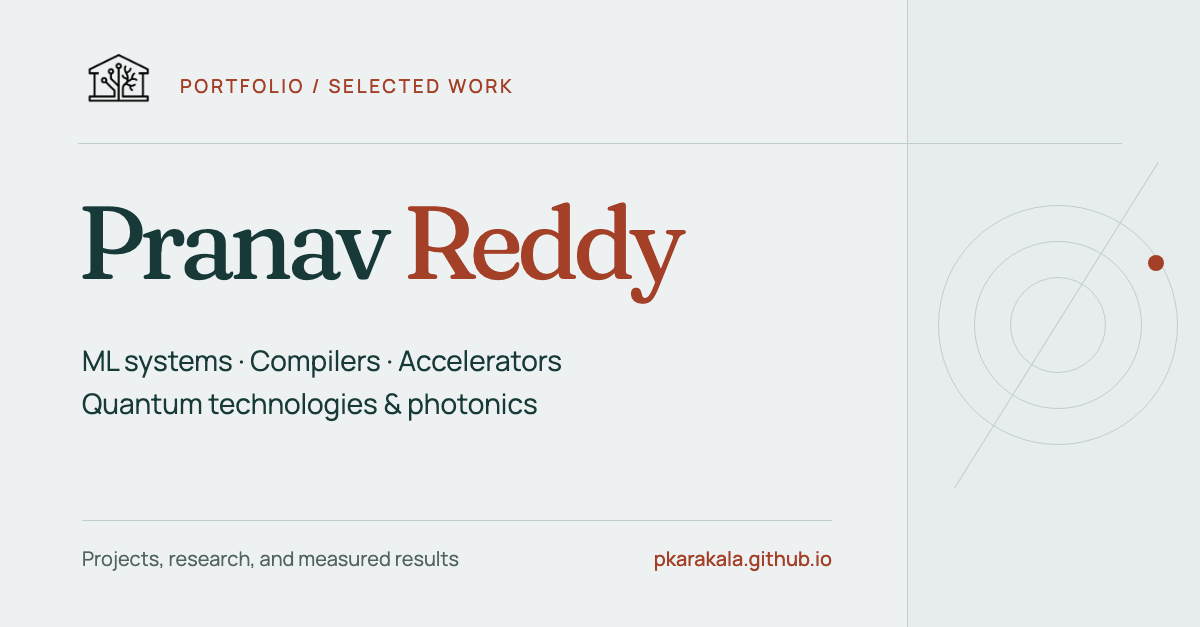
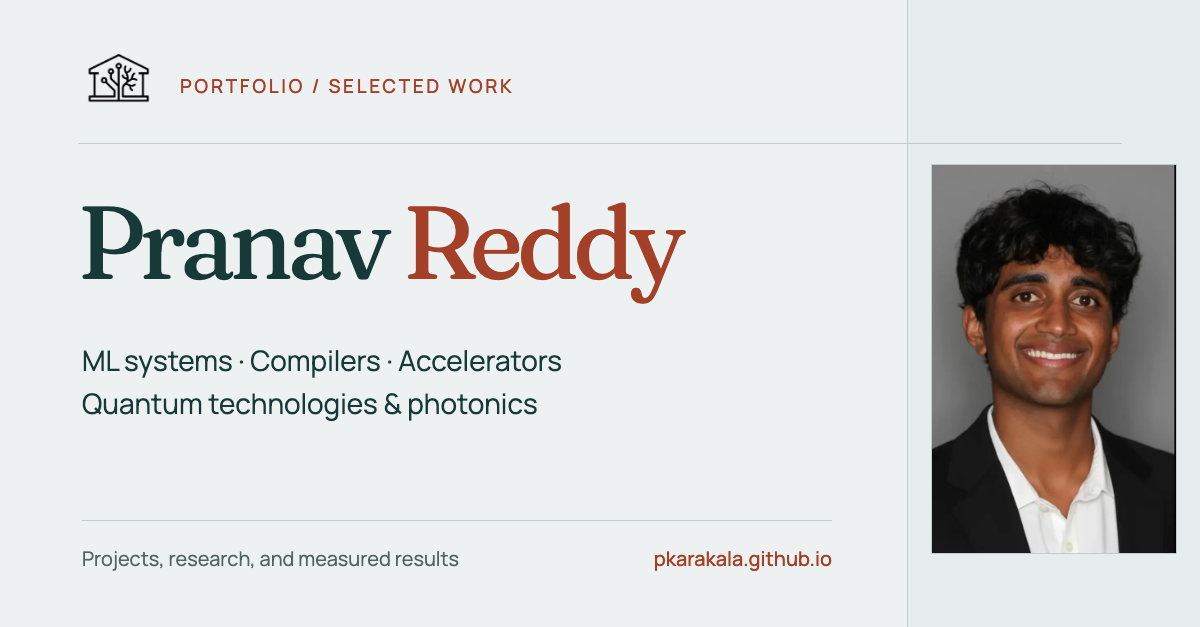
Add portrait to LinkedIn portfolio thumbnail (#6)

Changed region(s): [[0.7708, 0.2424, 0.9867, 0.9091]]

diff --git a/scripts/linkedin-art.html b/scripts/linkedin-art.html
@@ -35,13 +35,7 @@
     .card-focus { position: absolute; top: 339px; left: 82px; margin: 0; font-size: 28px; line-height: 1.55; }
     .card-footer { position: absolute; left: 82px; bottom: 55px; width: 750px; padding-top: 24px; border-top: 1px solid #bfcecb; display: flex; justify-content: space-between; font-size: 20px; color: #526461; }
     .card-footer strong { color: #a34027; font-weight: 500; }
-    .card-rings { position: absolute; left: 938px; top: 205px; width: 240px; height: 240px; }
-    .card-rings i { position: absolute; border: 1.5px solid #bfcecb; border-radius: 50%; }
-    .card-rings i:nth-child(1) { inset: 0; }
-    .card-rings i:nth-child(2) { inset: 36px; }
-    .card-rings i:nth-child(3) { inset: 72px; }
-    .card-rings b { position: absolute; width: 16px; height: 16px; right: 14px; top: 50px; border-radius: 50%; background: #a34027; }
-    .card-rings::after { content: ''; position: absolute; left: 118px; top: -72px; height: 384px; border-left: 1px solid #bfcecb; transform: rotate(32deg); }
+    .card-portrait { position: absolute; top: 164px; right: 23px; width: 246px; height: 390px; object-fit: cover; object-position: center; border: 1px solid #bfcecb; }
     .banner::before { content: ''; position: absolute; inset: 0; background: linear-gradient(90deg, #e4ebea 0 29%, transparent 29%); }
     .banner::after { content: ''; position: absolute; top: 38px; bottom: 38px; left: 395px; border-left: 2px solid #a34027; }
     .banner-kicker { position: absolute; top: 65px; left: 440px; font-size: 18px; font-weight: 500; letter-spacing: .14em; color: #a34027; }
@@ -65,7 +59,7 @@
     <h1 class="card-name">Pranav <span>Reddy</span></h1>
     <p class="card-focus">ML systems · Compilers · Accelerators<br>Quantum technologies &amp; photonics</p>
     <div class="card-footer"><span>Projects, research, and measured results</span><strong>pkarakala.github.io</strong></div>
-    <div class="card-rings" aria-hidden="true"><i></i><i></i><i></i><b></b></div>
+    <img class="card-portrait" src="../public/assets/images/pranav-596.webp" alt="Portrait of Pranav Reddy">
   </div>
   <div class="banner" aria-label="LinkedIn profile background graphic">
     <div class="banner-kicker">PRANAV REDDY / UCSB</div>

diff --git a/CONTENT-GUIDE.md b/CONTENT-GUIDE.md
@@ -83,7 +83,7 @@ npm run check:links
 
 Review homepage and Work at 1440, 1024, 768, 390, and 320px; follow keyboard focus, open a report and the resume, and check collaborator credits. The production build fails on missing local links/assets and draft leaks. External checks report blocked destinations separately; a bot-blocked response is not proof a URL is broken.
 
-The LinkedIn-ready graphics are `public/assets/images/linkedin-portfolio-card.png` (1200×627 website preview) and `public/assets/images/linkedin-profile-banner.png` (1584×396 profile cover). Their editable HTML source is `scripts/linkedin-art.html`, using the same local fonts, palette, and owner-supplied logo as the site. The website preview is used for Open Graph and Twitter metadata; the old `/banner.png` remains available for legacy links but is no longer promoted. Re-render both PNGs and run `npm run build` after changing the source; the build verifies their PNG format, dimensions, and size limits. LinkedIn may crop the cover differently by device, so its left side contains no critical text.
+The LinkedIn-ready graphics are `public/assets/images/linkedin-portfolio-card.png` (1200×627 website preview, including the portrait from `pranav-596.webp`) and `public/assets/images/linkedin-profile-banner.png` (1584×396 profile cover). Their editable HTML source is `scripts/linkedin-art.html`, using the same local fonts, palette, and owner-supplied logo as the site. The website preview is used for Open Graph and Twitter metadata; the old `/banner.png` remains available for legacy links but is no longer promoted. Re-render the affected PNG and run `npm run build` after changing the source; the build verifies both graphics' PNG format, dimensions, and size limits. LinkedIn may crop the cover differently by device, so its left side contains no critical text.
 
 ## Compatibility and assets
 
